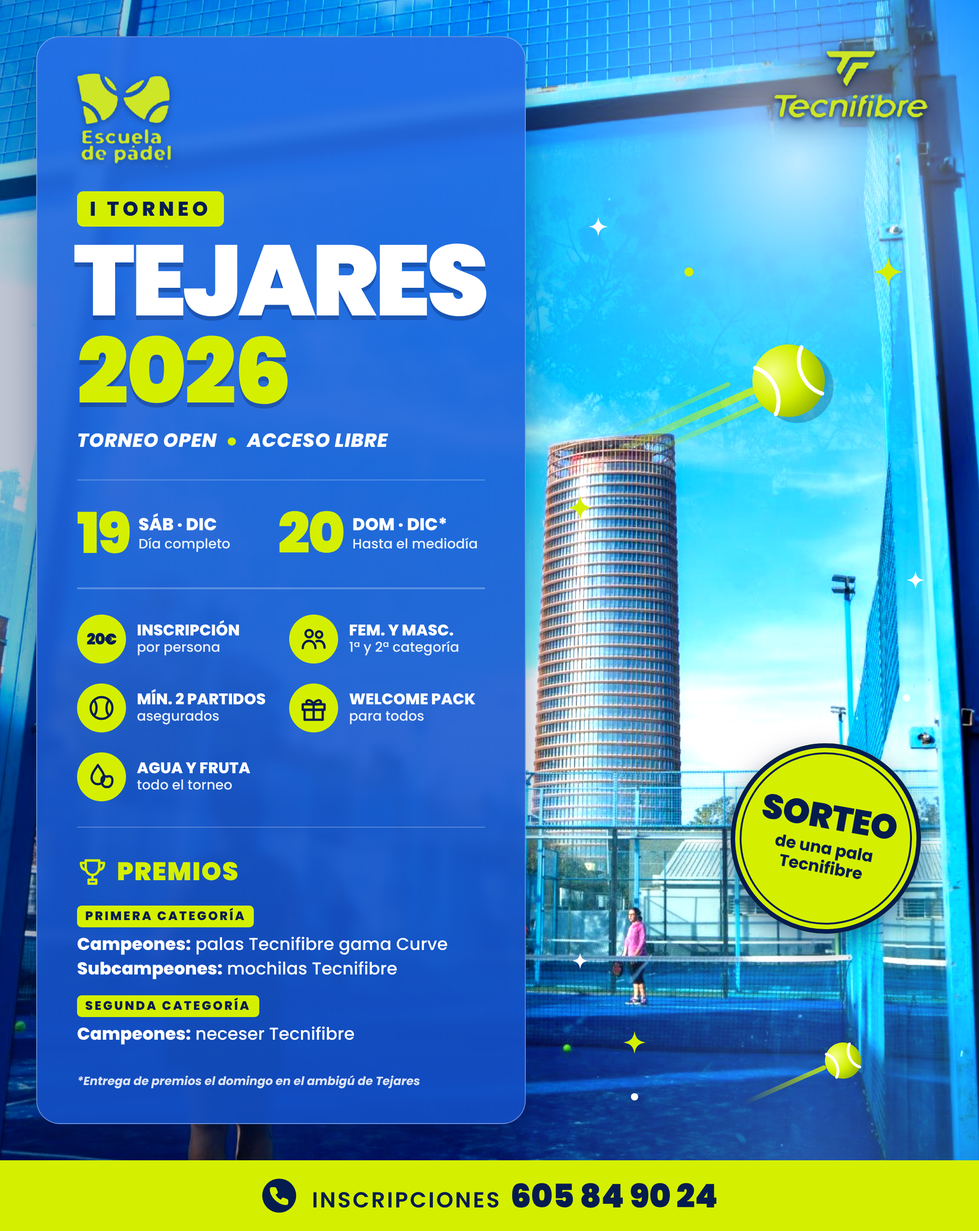
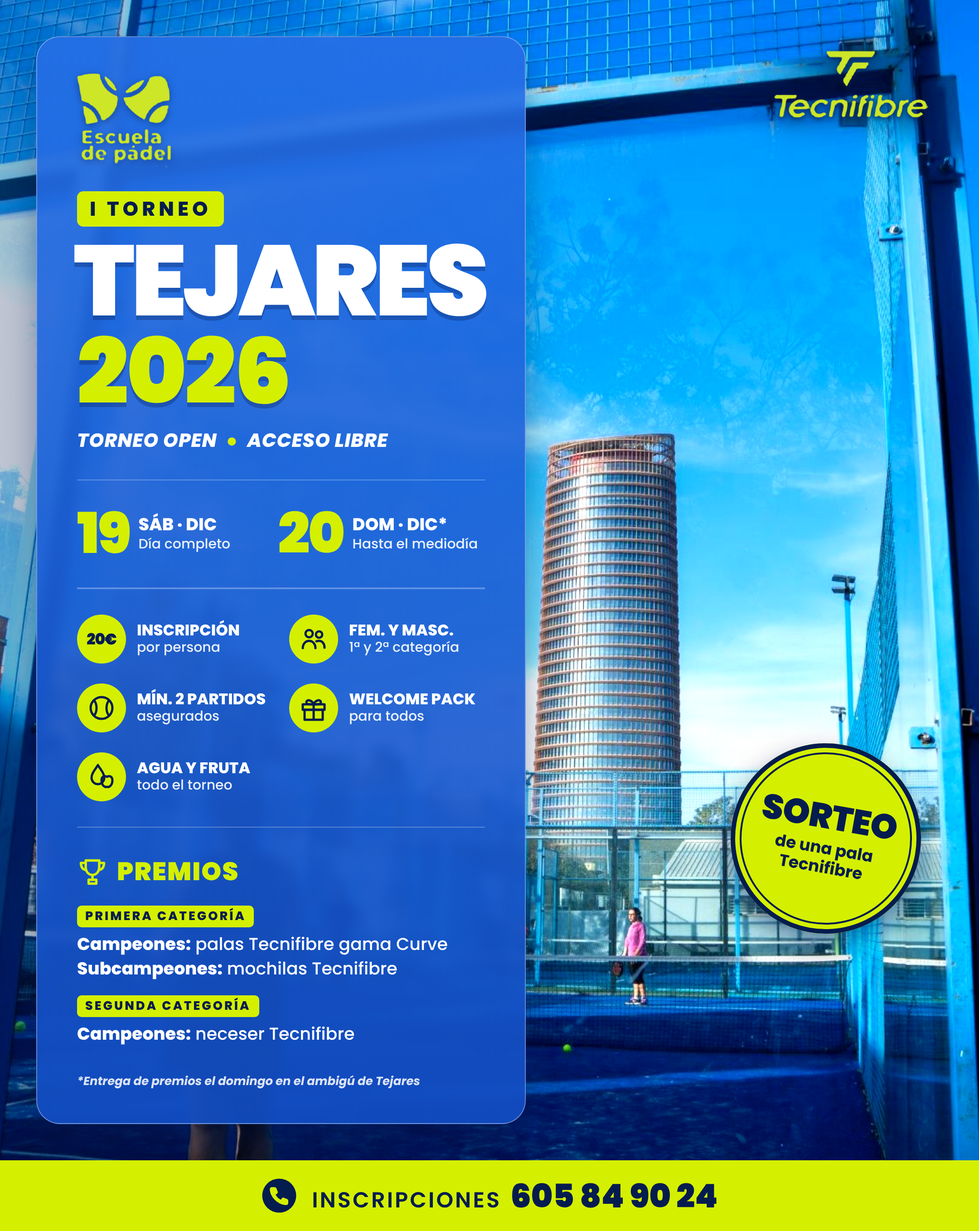
Cartel Tejares: quitar adornos; opción A (torre) y opción B (jugadora en espejo)
Claude-Session: https://claude.ai/code/session_0171j4B3Eg9Uj72AQuUNZk2r

diff --git a/carteles/torneo_tejares_2026/cartel_opcionB.html b/carteles/torneo_tejares_2026/cartel_opcionB.html
@@ -1,0 +1,145 @@
+<!doctype html>
+<html lang="es">
+<head>
+<meta charset="utf-8">
+<title>I Torneo Tejares 2026</title>
+<link href="https://fonts.googleapis.com/css2?family=Poppins:ital,wght@0,400;0,500;0,600;0,700;0,800;0,900;1,700;1,800;1,900&display=swap" rel="stylesheet">
+<style>
+  /* Columna de información a la izquierda (orden de lectura: qué, cuándo, cómo, premios) y foto libre a la derecha */
+  :root{
+    --lima:#d4f000;
+    --marino:#051c4f;
+    --blanco:#ffffff;
+  }
+  *{box-sizing:border-box;margin:0;padding:0}
+  html,body{background:var(--marino)}
+  body{width:1080px;height:1358px;overflow:hidden;font-family:'Poppins',sans-serif;color:var(--blanco)}
+  .cartel{position:relative;width:1080px;height:1358px;overflow:hidden;background:var(--marino)}
+
+  .foto{position:absolute;left:-160px;top:-470px;width:1300px;height:auto;transform:scaleX(-1);filter:saturate(1.2) brightness(1.12) contrast(1.05)}
+  .velo{position:absolute;inset:0;background:linear-gradient(90deg, rgba(5,28,79,.25) 0%, rgba(5,28,79,0) 55%)}
+
+  /* Columna */
+  .col{position:absolute;left:40px;top:40px;bottom:118px;width:540px;padding:40px 44px 36px;border-radius:26px;
+       background:linear-gradient(180deg,rgba(38,110,230,.9) 0%,rgba(18,78,196,.92) 100%);border:1.5px solid rgba(255,255,255,.35);
+       box-shadow:0 20px 40px rgba(5,28,79,.4);backdrop-filter:blur(6px);-webkit-backdrop-filter:blur(6px);display:flex;flex-direction:column}
+  .sep{height:1.5px;background:rgba(255,255,255,.28);margin:28px 0}
+
+  .logo-esc{width:104px;filter:drop-shadow(0 2px 4px rgba(5,28,79,.5))}
+
+  .edicion{display:inline-block;align-self:flex-start;margin-top:26px;font-weight:800;font-size:22px;letter-spacing:4px;color:var(--marino);background:var(--lima);padding:3px 14px;border-radius:7px;text-transform:uppercase}
+  .nombre{font-weight:900;font-size:110px;line-height:.95;letter-spacing:-4px;margin:8px 0 0 -4px;text-shadow:0 5px 0 rgba(5,28,79,.3)}
+  .anio{font-weight:900;font-size:100px;line-height:.95;letter-spacing:-2px;color:var(--lima);text-shadow:0 5px 0 rgba(5,28,79,.3)}
+  .lema{margin-top:12px;font-weight:800;font-style:italic;font-size:21px;letter-spacing:.5px;text-transform:uppercase}
+  .lema em{font-style:normal;color:var(--lima);margin:0 10px}
+
+  /* Fechas */
+  .fechas{display:grid;grid-template-columns:1fr 1.1fr;gap:14px}
+  .fecha{display:flex;align-items:center;gap:10px}
+  .fecha .n{font-weight:900;font-size:62px;line-height:1;color:var(--lima);letter-spacing:-2px}
+  .fecha .a{font-weight:800;font-size:19px;line-height:1.1;text-transform:uppercase}
+  .fecha .a span{display:block;white-space:nowrap;font-weight:500;font-size:15px;text-transform:none;opacity:.9;margin-top:2px}
+
+  /* Lista de datos */
+  .datos{display:grid;grid-template-columns:1fr 1fr;gap:22px 18px}
+  .dato{display:flex;align-items:center;gap:12px}
+  .dato .ico{flex:none;width:54px;height:54px;border-radius:50%;background:var(--lima);display:flex;align-items:center;justify-content:center}
+  .dato .ico svg{width:32px;height:32px}
+  .dato .ico b{font-weight:900;font-size:17px;color:var(--marino);letter-spacing:-.5px}
+  .dato .t1{font-weight:800;font-size:17px;white-space:nowrap;line-height:1.1;text-transform:uppercase}
+  .dato .t2{font-weight:500;font-size:15px;line-height:1.2;opacity:.9}
+
+  /* Premios */
+  .premios h3{font-weight:900;font-size:28px;letter-spacing:1px;color:var(--lima);text-transform:uppercase;display:flex;align-items:center;gap:10px}
+  .premios h3 svg{width:34px;height:34px}
+  .etq{display:inline-block;margin-top:16px;font-weight:800;font-size:13.5px;letter-spacing:2px;color:var(--marino);background:var(--lima);padding:2px 9px;border-radius:5px;text-transform:uppercase}
+  .premios p{font-weight:500;font-size:19px;line-height:1.4;margin-top:6px}
+  .premios p b{font-weight:800}
+  .nota{margin-top:auto;font-weight:500;font-style:italic;font-size:13px;opacity:.85}
+
+  /* Lado derecho */
+  .logo-tec{position:absolute;right:56px;top:56px;width:170px;filter:drop-shadow(0 2px 3px rgba(5,28,79,.9)) drop-shadow(0 4px 14px rgba(5,28,79,.7))}
+  .sorteo{position:absolute;right:70px;top:330px;width:210px;height:210px;border-radius:50%;background:var(--lima);color:var(--marino);
+          display:flex;flex-direction:column;align-items:center;justify-content:center;text-align:center;transform:rotate(10deg);
+          box-shadow:0 14px 30px rgba(5,28,79,.5), inset 0 0 0 5px var(--marino), inset 0 0 0 10px var(--lima), inset 0 0 0 12px var(--marino)}
+  .sorteo .s1{font-weight:900;font-size:38px;line-height:1;letter-spacing:-.5px}
+  .sorteo .s2{font-weight:700;font-size:18px;line-height:1.15;margin-top:6px}
+
+  /* Pie */
+  .pie{position:absolute;left:0;right:0;bottom:0;height:78px;background:var(--lima);color:var(--marino);display:flex;align-items:center;justify-content:center;gap:16px}
+  .pie svg{width:40px;height:40px}
+  .pie .tel{font-weight:600;font-size:24px;letter-spacing:2px;text-transform:uppercase}
+  .pie .tel b{font-weight:900;font-size:36px;letter-spacing:0;margin-left:10px}
+</style>
+</head>
+<body>
+<div class="cartel">
+
+  <img class="foto" src="assets/foto_pista.jpg" alt="">
+  <div class="velo"></div>
+
+  <div class="col">
+    <img class="logo-esc" src="assets/logo_escuela.png" alt="Escuela de pádel">
+
+    <div class="edicion">I Torneo</div>
+    <div class="nombre">TEJARES</div>
+    <div class="anio">2026</div>
+    <div class="lema">Torneo open<em>●</em>Acceso libre</div>
+
+    <div class="sep"></div>
+
+    <div class="fechas">
+      <div class="fecha"><div class="n">19</div><div class="a">Sáb · Dic<span>Día completo</span></div></div>
+      <div class="fecha"><div class="n">20</div><div class="a">Dom · Dic*<span>Hasta el mediodía</span></div></div>
+    </div>
+
+    <div class="sep"></div>
+
+    <div class="datos">
+      <div class="dato">
+        <div class="ico"><b>20€</b></div>
+        <div><div class="t1">Inscripción</div><div class="t2">por persona</div></div>
+      </div>
+      <div class="dato">
+        <div class="ico"><svg viewBox="0 0 64 64" fill="none" stroke="#051c4f" stroke-width="5" stroke-linecap="round"><circle cx="22" cy="20" r="8"/><circle cx="44" cy="22" r="7"/><path d="M8 52c0-9 6-16 14-16s14 7 14 16M38 37c2-1 4-1 6-1 7 0 12 6 12 15"/></svg></div>
+        <div><div class="t1">Fem. y masc.</div><div class="t2">1ª y 2ª categoría</div></div>
+      </div>
+      <div class="dato">
+        <div class="ico"><svg viewBox="0 0 64 64" fill="none" stroke="#051c4f" stroke-width="5"><circle cx="32" cy="32" r="24"/><path d="M15 15c8 8 8 26 0 34M49 15c-8 8-8 26 0 34"/></svg></div>
+        <div><div class="t1">Mín. 2 partidos</div><div class="t2">asegurados</div></div>
+      </div>
+      <div class="dato">
+        <div class="ico"><svg viewBox="0 0 64 64" fill="none" stroke="#051c4f" stroke-width="5" stroke-linejoin="round"><rect x="8" y="24" width="48" height="12"/><rect x="12" y="36" width="40" height="22"/><path d="M32 24v34"/><path d="M32 24c-4-10-16-12-16-4 0 4 8 4 16 4zM32 24c4-10 16-12 16-4 0 4-8 4-16 4z"/></svg></div>
+        <div><div class="t1">Welcome pack</div><div class="t2">para todos</div></div>
+      </div>
+      <div class="dato">
+        <div class="ico"><svg viewBox="0 0 64 64" fill="none" stroke="#051c4f" stroke-width="5" stroke-linejoin="round"><path d="M24 6C18 16 10 24 10 34a14 14 0 0 0 28 0C38 24 30 16 24 6z"/><path d="M44 32c-4-3-12-2-12 8 0 9 6 16 12 14 6 2 12-5 12-14 0-10-8-11-12-8z"/></svg></div>
+        <div><div class="t1">Agua y fruta</div><div class="t2">todo el torneo</div></div>
+      </div>
+    </div>
+
+    <div class="sep"></div>
+
+    <div class="premios">
+      <h3><svg viewBox="0 0 64 64" fill="none" stroke="#d4f000" stroke-width="5" stroke-linejoin="round"><path d="M18 8h28v14c0 9-6 16-14 16S18 31 18 22z"/><path d="M18 13H8c0 9 4 14 11 15M46 13h10c0 9-4 14-11 15"/><path d="M32 38v10M24 48h16v8H24z"/></svg>Premios</h3>
+      <div class="etq">Primera categoría</div>
+      <p><b>Campeones:</b> palas Tecnifibre gama Curve<br><b>Subcampeones:</b> mochilas Tecnifibre</p>
+      <div class="etq">Segunda categoría</div>
+      <p><b>Campeones:</b> neceser Tecnifibre</p>
+    </div>
+
+    <div class="nota">*Entrega de premios el domingo en el ambigú de Tejares</div>
+  </div>
+
+  <img class="logo-tec" src="assets/logo_tecnifibre.png" alt="Tecnifibre">
+
+  <div class="sorteo"><div class="s1">SORTEO</div><div class="s2">de una pala<br>Tecnifibre</div></div>
+
+  <div class="pie">
+    <svg viewBox="0 0 64 64"><circle cx="32" cy="32" r="30" fill="#051c4f"/><path d="M24 17c1.5 0 2.5.8 3 2l2.4 6c.4 1.2 0 2.4-1 3.2l-2.6 2c2 4.2 5 7.2 9 9l2-2.6c.8-1 2-1.4 3.2-1l6 2.4c1.2.5 2 1.5 2 3V45c0 2-1.6 3.6-3.6 3.6C30 48.6 15.4 34 15.4 20.6 15.4 18.6 17 17 19 17z" fill="#d4f000"/></svg>
+    <div class="tel">Inscripciones<b>605 84 90 24</b></div>
+  </div>
+
+</div>
+</body>
+</html>

diff --git a/carteles/torneo_tejares_2026/cartel.html b/carteles/torneo_tejares_2026/cartel.html
@@ -16,12 +16,8 @@
   body{width:1080px;height:1358px;overflow:hidden;font-family:'Poppins',sans-serif;color:var(--blanco)}
   .cartel{position:relative;width:1080px;height:1358px;overflow:hidden;background:var(--marino)}
 
-  .foto{position:absolute;left:-60px;top:-330px;width:1300px;height:auto;filter:saturate(1.3) brightness(1.2) contrast(1.06)}
+  .foto{position:absolute;left:-60px;top:-330px;width:1300px;height:auto;filter:saturate(1.2) brightness(1.12) contrast(1.05)}
   .velo{position:absolute;inset:0;background:linear-gradient(90deg, rgba(5,28,79,.25) 0%, rgba(5,28,79,0) 55%)}
-  .sol{position:absolute;right:-180px;top:-200px;width:760px;height:760px;border-radius:50%;
-       background:radial-gradient(circle, rgba(255,255,240,.75) 0%, rgba(255,250,200,.35) 25%, rgba(140,210,255,.18) 50%, transparent 70%);mix-blend-mode:screen}
-  .luz{position:absolute;right:0;bottom:78px;width:600px;height:420px;background:radial-gradient(ellipse at 70% 100%, rgba(80,170,255,.45) 0%, transparent 65%);mix-blend-mode:screen}
-  .deco{position:absolute;inset:0;pointer-events:none}
 
   /* Columna */
   .col{position:absolute;left:40px;top:40px;bottom:118px;width:540px;padding:40px 44px 36px;border-radius:26px;
@@ -81,38 +77,6 @@
 
   <img class="foto" src="assets/foto_pista.jpg" alt="">
   <div class="velo"></div>
-
-  <div class="sol"></div>
-  <div class="luz"></div>
-  <svg class="deco" width="1080" height="1358" viewBox="0 0 1080 1358" xmlns="http://www.w3.org/2000/svg">
-    <defs>
-      <path id="star" d="M0-18C2-6 6-2 18 0 6 2 2 6 0 18-2 6-6 2-18 0-6-2-2-6 0-18z"/>
-      <radialGradient id="bola" cx=".35" cy=".3" r=".75"><stop offset="0" stop-color="#f4ff8a"/><stop offset=".55" stop-color="#d4f000"/><stop offset="1" stop-color="#93b400"/></radialGradient>
-      <linearGradient id="estela" x1="0" y1="0" x2="1" y2="0"><stop offset="0" stop-color="#d4f000" stop-opacity="0"/><stop offset="1" stop-color="#d4f000" stop-opacity=".85"/></linearGradient>
-    </defs>
-    <!-- pelota grande con estela -->
-    <g transform="translate(870 420) rotate(-24)">
-      <rect x="-230" y="-10" width="200" height="8" rx="4" fill="url(#estela)"/>
-      <rect x="-190" y="8" width="160" height="6" rx="3" fill="url(#estela)" opacity=".8"/>
-      <rect x="-210" y="-26" width="150" height="5" rx="2.5" fill="url(#estela)" opacity=".6"/>
-      <ellipse cx="6" cy="10" rx="40" ry="40" fill="rgba(5,28,79,.25)"/>
-      <circle r="40" fill="url(#bola)"/>
-      <path d="M-28 -28c16 14 16 42 0 56M28 -28c-16 14-16 42 0 56" fill="none" stroke="#fff" stroke-width="4.5" stroke-linecap="round"/>
-    </g>
-    <!-- pelota pequeña -->
-    <g transform="translate(930 1170) rotate(-24)">
-      <rect x="-120" y="-4" width="100" height="5" rx="2.5" fill="url(#estela)"/>
-      <circle r="20" fill="url(#bola)"/>
-      <path d="M-14 -14c8 7 8 21 0 28M14 -14c-8 7-8 21 0 28" fill="none" stroke="#fff" stroke-width="3" stroke-linecap="round"/>
-    </g>
-    <use href="#star" transform="translate(980 300) scale(.9)" fill="#d4f000"/>
-    <use href="#star" transform="translate(660 250) scale(.6)" fill="#fff"/>
-    <use href="#star" transform="translate(1010 640) scale(.55)" fill="#fff"/>
-    <use href="#star" transform="translate(640 560) scale(.75)" fill="#d4f000"/>
-    <use href="#star" transform="translate(700 1150) scale(.7)" fill="#d4f000"/>
-    <use href="#star" transform="translate(640 1060) scale(.5)" fill="#fff"/>
-    <circle cx="760" cy="300" r="5" fill="#d4f000"/><circle cx="1000" cy="770" r="4" fill="#fff"/><circle cx="700" cy="1210" r="4" fill="#fff"/>
-  </svg>
 
   <div class="col">
     <img class="logo-esc" src="assets/logo_escuela.png" alt="Escuela de pádel">
